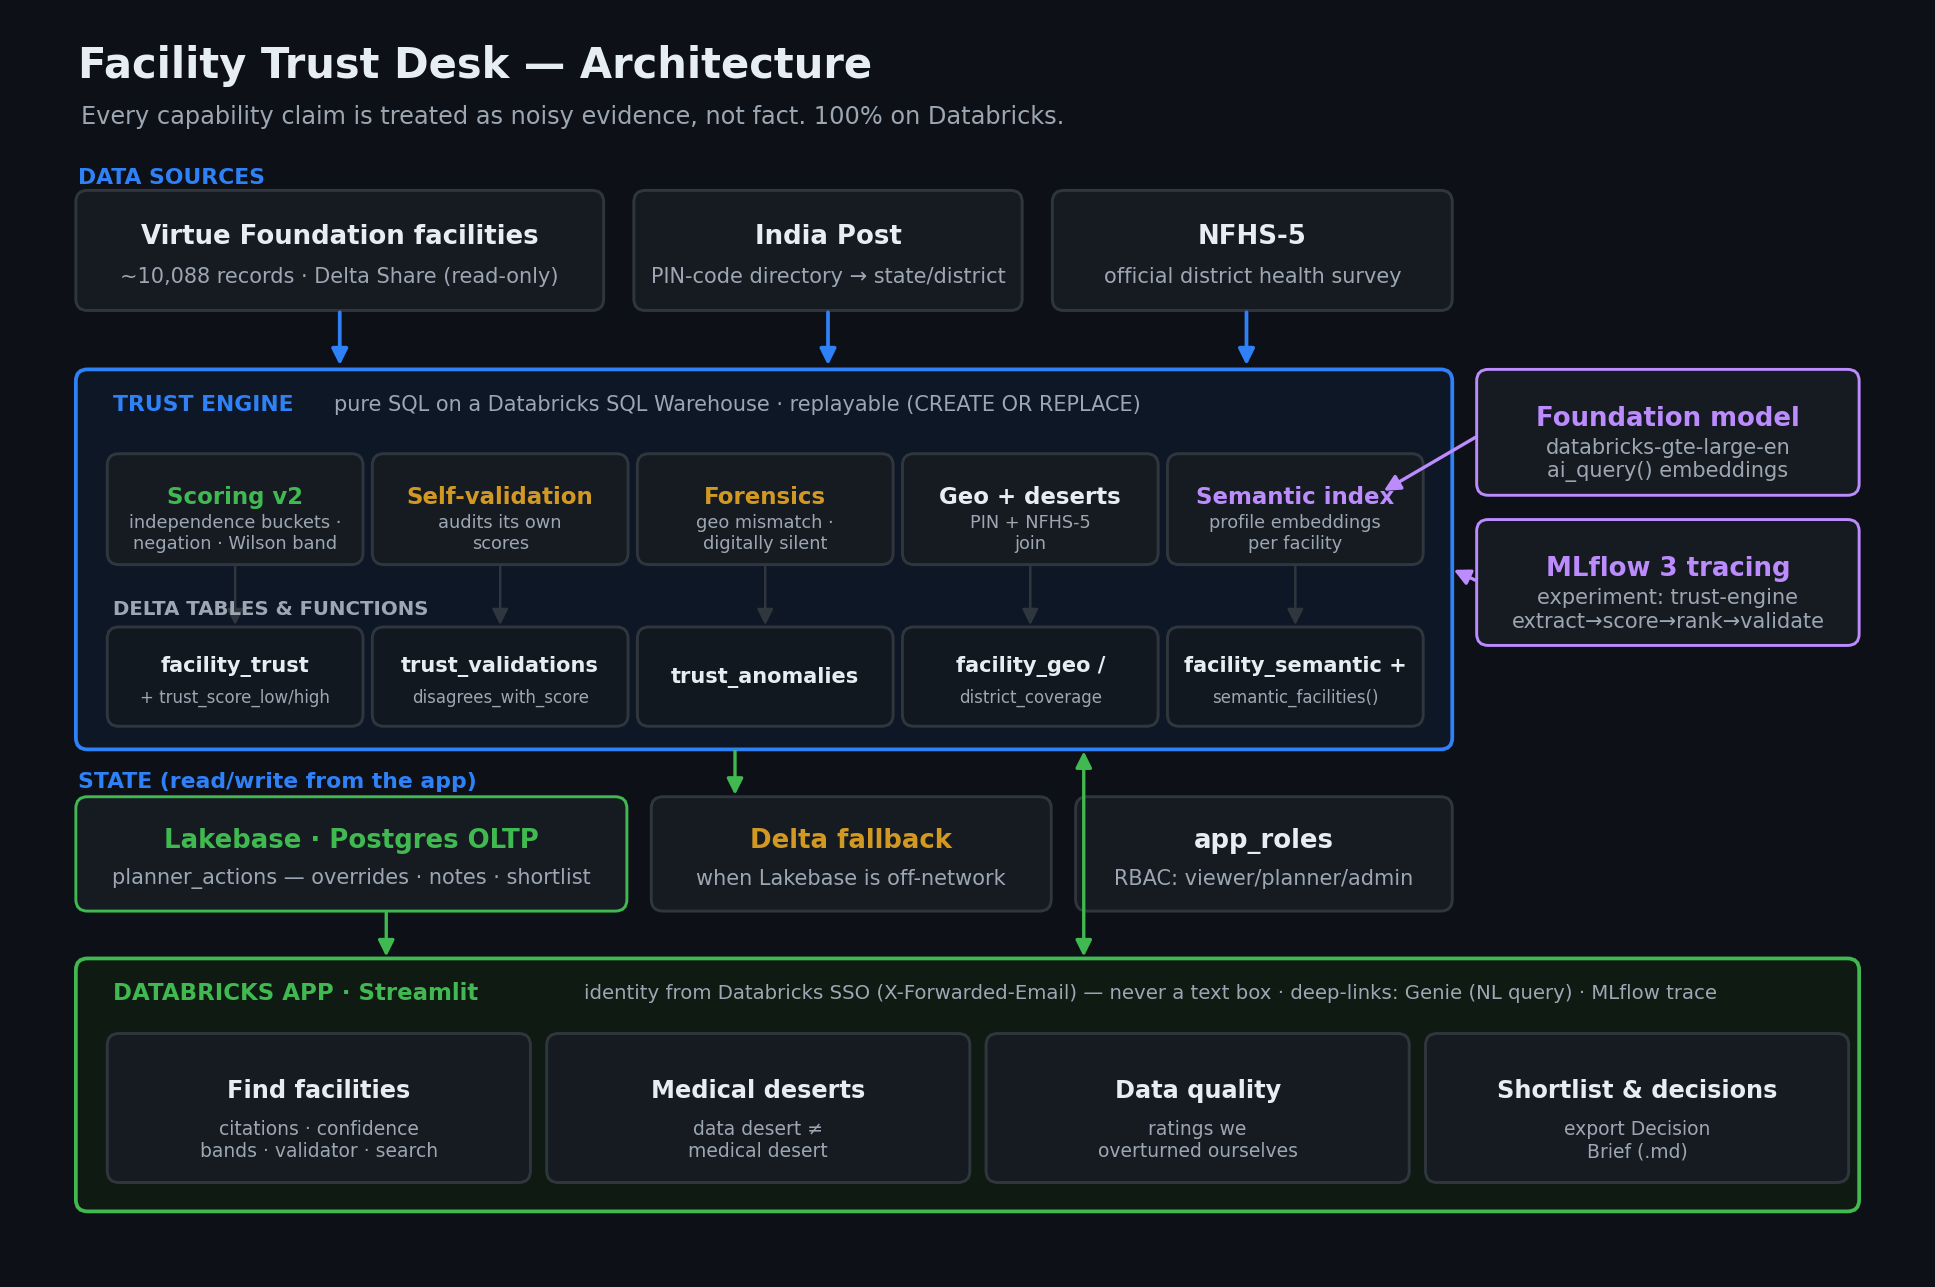
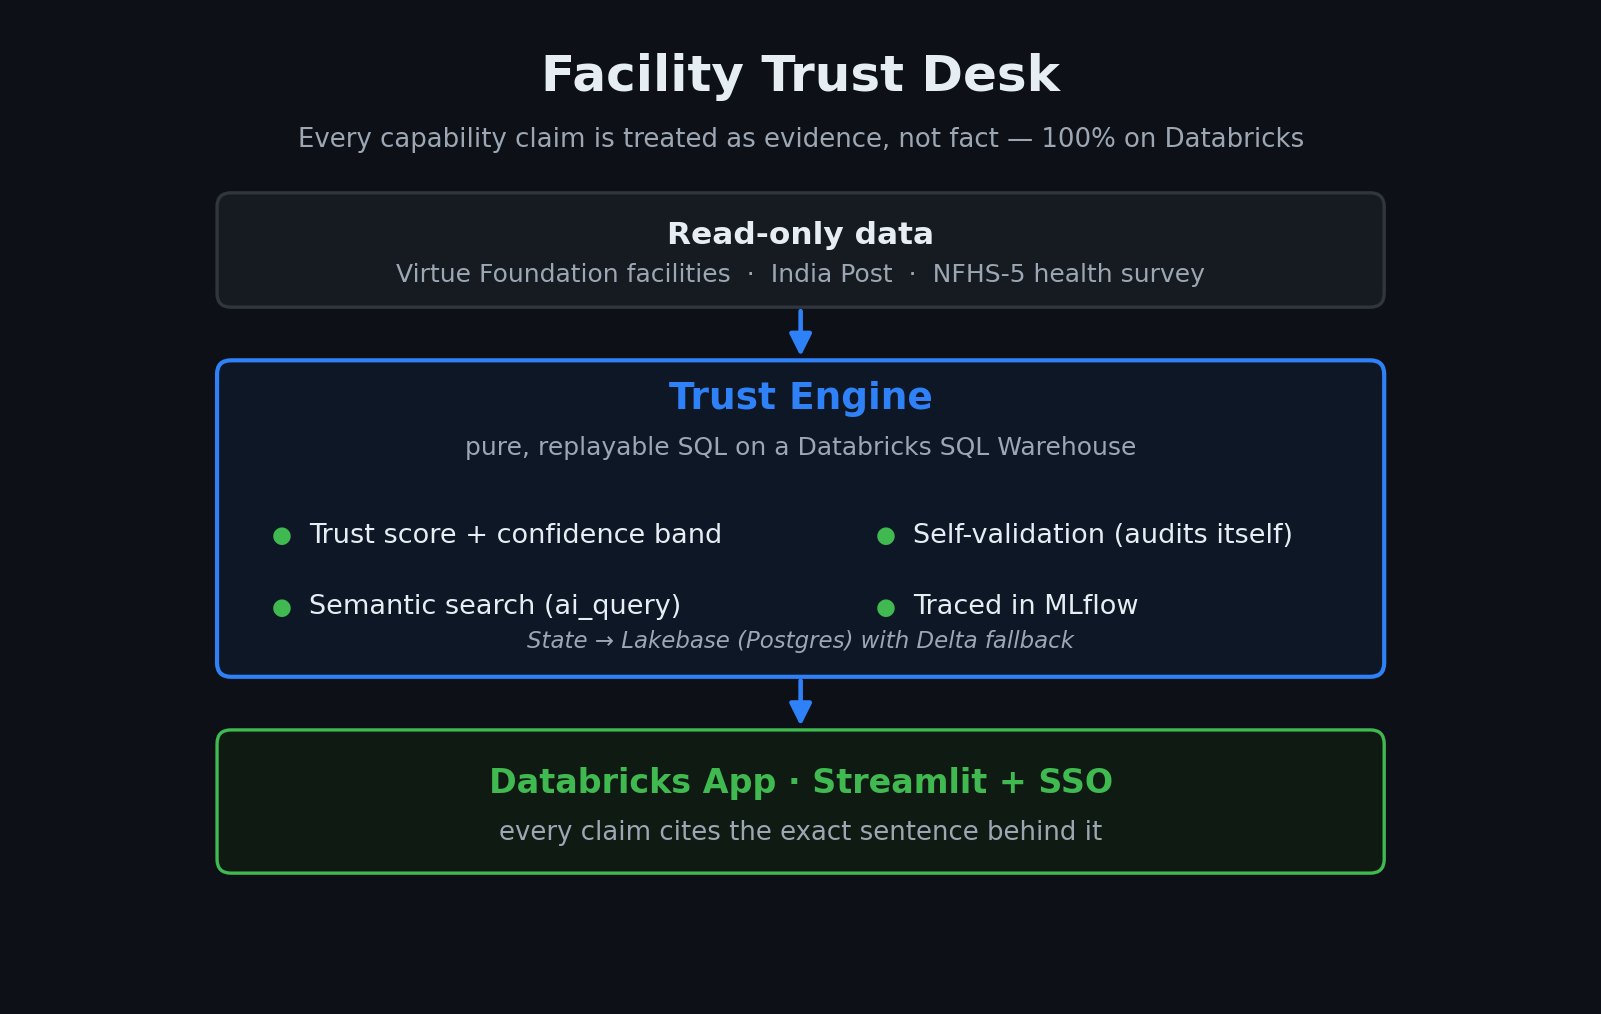
docs: simplify architecture diagram to a 3-layer view (readable in ~5s)

Changed region(s): [[0.0312, 0.0306, 0.9681, 0.9477], [0.8432, 0.1834, 0.8745, 0.214], [0.7495, 0.1834, 0.7808, 0.214]]

diff --git a/docs/make_architecture.py b/docs/make_architecture.py
@@ -1,6 +1,7 @@
-"""Generate docs/architecture.png — Facility Trust Desk system architecture.
+"""Generate docs/architecture.png — Facility Trust Desk, simple 3-layer view.
 
-On-brand (matches the app's dark theme). Reproducible: `python docs/make_architecture.py`.
+Built to be read in ~5 seconds on screen. Reproducible:
+    python docs/make_architecture.py
 """
 
 import matplotlib
@@ -9,133 +10,70 @@ import matplotlib.pyplot as plt
 from matplotlib.patches import FancyBboxPatch, FancyArrowPatch
 
 BG = "#0D1117"; CARD = "#161B22"; BORDER = "#30363D"
-TEXT = "#E6EDF3"; MUTED = "#9DA7B3"; ACCENT = "#2F81F7"
-GREEN = "#3FB950"; AMBER = "#D29922"; PURPLE = "#BC8CFF"
+TEXT = "#E6EDF3"; MUTED = "#9DA7B3"; ACCENT = "#2F81F7"; GREEN = "#3FB950"
 
-fig, ax = plt.subplots(figsize=(16, 10.5), dpi=150)
+fig, ax = plt.subplots(figsize=(13, 8), dpi=150)
 fig.patch.set_facecolor(BG); ax.set_facecolor(BG)
-ax.set_xlim(0, 16); ax.set_ylim(0, 10.5); ax.axis("off")
+ax.set_xlim(0, 13); ax.set_ylim(0, 8); ax.axis("off")
 
 
 def box(x, y, w, h, title, sub="", tc=TEXT, edge=BORDER, face=CARD,
-        title_size=12.5, sub_size=10, lw=1.4, bold=True):
-    ax.add_patch(FancyBboxPatch((x, y), w, h, boxstyle="round,pad=0.02,rounding_size=0.10",
-                                linewidth=lw, edgecolor=edge, facecolor=face))
+        ts=17, ss=12, lw=1.6):
+    ax.add_patch(FancyBboxPatch((x, y), w, h,
+                 boxstyle="round,pad=0.02,rounding_size=0.12",
+                 linewidth=lw, edgecolor=edge, facecolor=face))
     if sub:
-        ax.text(x + w / 2, y + h * 0.62, title, ha="center", va="center",
-                color=tc, fontsize=title_size, fontweight="bold" if bold else "normal")
-        ax.text(x + w / 2, y + h * 0.28, sub, ha="center", va="center",
-                color=MUTED, fontsize=sub_size, wrap=True)
+        ax.text(x + w / 2, y + h * 0.63, title, ha="center", va="center",
+                color=tc, fontsize=ts, fontweight="bold")
+        ax.text(x + w / 2, y + h * 0.27, sub, ha="center", va="center",
+                color=MUTED, fontsize=ss)
     else:
         ax.text(x + w / 2, y + h / 2, title, ha="center", va="center",
-                color=tc, fontsize=title_size, fontweight="bold" if bold else "normal")
+                color=tc, fontsize=ts, fontweight="bold")
 
 
-def arrow(x1, y1, x2, y2, color=ACCENT, lw=1.8, style="-|>"):
-    ax.add_patch(FancyArrowPatch((x1, y1), (x2, y2), arrowstyle=style,
-                                 mutation_scale=16, color=color, lw=lw,
-                                 shrinkA=2, shrinkB=2))
-
-
-def label(x, y, txt, color=MUTED, size=10, ha="left", weight="normal", style="normal"):
-    ax.text(x, y, txt, ha=ha, va="center", color=color, fontsize=size,
-            fontweight=weight, fontstyle=style)
+def arrow(x1, y1, x2, y2, color=ACCENT, lw=2.2):
+    ax.add_patch(FancyArrowPatch((x1, y1), (x2, y2), arrowstyle="-|>",
+                 mutation_scale=22, color=color, lw=lw, shrinkA=3, shrinkB=3))
 
 
 # ---- title -----------------------------------------------------------------
-ax.text(0.35, 10.15, "Facility Trust Desk — Architecture", color=TEXT,
-        fontsize=20, fontweight="bold")
-ax.text(0.37, 9.75, "Every capability claim is treated as noisy evidence, not fact. "
-        "100% on Databricks.", color=MUTED, fontsize=11.5)
+ax.text(6.5, 7.6, "Facility Trust Desk", color=TEXT, fontsize=24,
+        fontweight="bold", ha="center")
+ax.text(6.5, 7.12, "Every capability claim is treated as evidence, not fact — 100% on Databricks",
+        color=MUTED, fontsize=12.5, ha="center")
 
 # ---- 1. Sources ------------------------------------------------------------
-label(0.35, 9.28, "DATA SOURCES", color=ACCENT, size=10.5, weight="bold")
-box(0.35, 8.15, 4.5, 1.0, "Virtue Foundation facilities",
-    "~10,088 records · Delta Share (read-only)")
-box(5.15, 8.15, 3.3, 1.0, "India Post", "PIN-code directory → state/district")
-box(8.75, 8.15, 3.4, 1.0, "NFHS-5", "official district health survey")
+box(1.5, 5.75, 10, 0.95, "Read-only data",
+    "Virtue Foundation facilities  ·  India Post  ·  NFHS-5 health survey",
+    ts=15, ss=12)
+arrow(6.5, 5.75, 6.5, 5.25)
 
 # ---- 2. Trust Engine -------------------------------------------------------
-ax.add_patch(FancyBboxPatch((0.35, 4.35), 11.8, 3.25,
-             boxstyle="round,pad=0.02,rounding_size=0.10",
-             linewidth=1.8, edgecolor=ACCENT, facecolor="#0E1726"))
-label(0.65, 7.32, "TRUST ENGINE", color=ACCENT, size=10.5, weight="bold")
-label(2.55, 7.32, "pure SQL on a Databricks SQL Warehouse · replayable (CREATE OR REPLACE)",
-      color=MUTED, size=10)
-
-# transforms row
-tw, th, ty = 2.16, 0.92, 5.95
-trans = [
-    ("Scoring v2", "independence buckets ·\nnegation · Wilson band", GREEN),
-    ("Self-validation", "audits its own\nscores", AMBER),
-    ("Forensics", "geo mismatch ·\ndigitally silent", AMBER),
-    ("Geo + deserts", "PIN + NFHS-5\njoin", TEXT),
-    ("Semantic index", "profile embeddings\nper facility", PURPLE),
+box(1.5, 2.55, 10, 2.7, "", face="#0E1726", edge=ACCENT, lw=2)
+ax.text(6.5, 4.85, "Trust Engine", color=ACCENT, fontsize=18, fontweight="bold",
+        ha="center")
+ax.text(6.5, 4.45, "pure, replayable SQL on a Databricks SQL Warehouse",
+        color=MUTED, fontsize=12, ha="center")
+pts = [
+    "Trust score + confidence band",
+    "Self-validation (audits itself)",
+    "Semantic search (ai_query)",
+    "Traced in MLflow",
 ]
-for i, (t, s, c) in enumerate(trans):
-    x = 0.62 + i * (tw + 0.12)
-    box(x, ty, tw, th, t, s, tc=c, title_size=11, sub_size=8.5, face=CARD)
+for i, p in enumerate(pts):
+    col = 1.95 + (i % 2) * 5.2
+    row = 3.75 - (i // 2) * 0.62
+    ax.text(col, row, "\u25cf", color=GREEN, fontsize=11, va="center")
+    ax.text(col + 0.32, row, p, color=TEXT, fontsize=13, va="center")
+ax.text(6.5, 2.78, "State \u2192 Lakebase (Postgres) with Delta fallback",
+        color=MUTED, fontsize=11, ha="center", fontstyle="italic")
+arrow(6.5, 2.55, 6.5, 2.05)
 
-# output tables row
-label(0.65, 5.55, "DELTA TABLES & FUNCTIONS", color=MUTED, size=9.5, weight="bold")
-outs = [
-    "facility_trust\n+ trust_score_low/high",
-    "trust_validations\ndisagrees_with_score",
-    "trust_anomalies",
-    "facility_geo /\ndistrict_coverage",
-    "facility_semantic +\nsemantic_facilities()",
-]
-ow, oh, oy = 2.16, 0.82, 4.55
-for i, t in enumerate(outs):
-    x = 0.62 + i * (ow + 0.12)
-    name, _, sub = t.partition("\n")
-    box(x, oy, ow, oh, name, sub, title_size=10, sub_size=8, face="#12181F")
-    arrow(x + ow / 2, ty, x + ow / 2, oy + oh, color=BORDER, lw=1.2)
+# ---- 3. App ----------------------------------------------------------------
+box(1.5, 0.85, 10, 1.2, "Databricks App \u00b7 Streamlit + SSO",
+    "every claim cites the exact sentence behind it",
+    tc=GREEN, edge=GREEN, face="#0E1A12", ts=16, ss=12.5)
 
-# ---- side callouts ---------------------------------------------------------
-box(12.4, 6.55, 3.25, 1.05, "Foundation model",
-    "databricks-gte-large-en\nai_query() embeddings", tc=PURPLE, edge=PURPLE)
-arrow(12.4, 7.05, 11.55, 6.55, color=PURPLE, lw=1.6)   # → semantic index chip
-box(12.4, 5.25, 3.25, 1.05, "MLflow 3 tracing",
-    "experiment: trust-engine\nextract→score→rank→validate", tc=PURPLE, edge=PURPLE)
-arrow(12.4, 5.78, 12.15, 5.9, color=PURPLE, lw=1.6)
-
-# sources -> engine
-arrow(2.6, 8.15, 2.6, 7.62, color=ACCENT)
-arrow(6.8, 8.15, 6.8, 7.62, color=ACCENT)
-arrow(10.4, 8.15, 10.4, 7.62, color=ACCENT)
-
-# ---- 3. State / persistence ------------------------------------------------
-label(0.35, 4.05, "STATE (read/write from the app)", color=ACCENT, size=10.5, weight="bold")
-box(0.35, 2.95, 4.7, 0.95, "Lakebase · Postgres OLTP",
-    "planner_actions — overrides · notes · shortlist", tc=GREEN, edge=GREEN)
-box(5.3, 2.95, 3.4, 0.95, "Delta fallback",
-    "when Lakebase is off-network", tc=AMBER)
-box(8.95, 2.95, 3.2, 0.95, "app_roles",
-    "RBAC: viewer/planner/admin", tc=TEXT)
-
-# ---- 4. App ----------------------------------------------------------------
-ax.add_patch(FancyBboxPatch((0.35, 0.35), 15.3, 2.15,
-             boxstyle="round,pad=0.02,rounding_size=0.10",
-             linewidth=1.8, edgecolor=GREEN, facecolor="#0E1A12"))
-label(0.65, 2.22, "DATABRICKS APP · Streamlit", color=GREEN, size=11, weight="bold")
-label(4.7, 2.22, "identity from Databricks SSO (X-Forwarded-Email) — never a text box · "
-      "deep-links: Genie (NL query) · MLflow trace", color=MUTED, size=9.5)
-tabs = [
-    ("Find facilities", "citations · confidence\nbands · validator · search"),
-    ("Medical deserts", "data desert ≠\nmedical desert"),
-    ("Data quality", "ratings we\noverturned ourselves"),
-    ("Shortlist & decisions", "export Decision\nBrief (.md)"),
-]
-tw2 = 3.6
-for i, (t, s) in enumerate(tabs):
-    x = 0.62 + i * (tw2 + 0.18)
-    box(x, 0.6, tw2, 1.25, t, s, title_size=11.5, sub_size=9, face=CARD)
-
-# engine/state -> app
-arrow(6.0, 4.35, 6.0, 3.9, color=GREEN, lw=1.6)      # engine tables -> state
-arrow(3.0, 2.95, 3.0, 2.5, color=GREEN, lw=1.6)      # state -> app
-arrow(9.0, 4.35, 9.0, 2.5, color=GREEN, lw=1.6, style="<|-|>")  # app reads tables directly
-
-plt.savefig("docs/architecture.png", facecolor=BG, bbox_inches="tight", pad_inches=0.25)
+plt.savefig("docs/architecture.png", facecolor=BG, bbox_inches="tight", pad_inches=0.3)
 print("wrote docs/architecture.png")